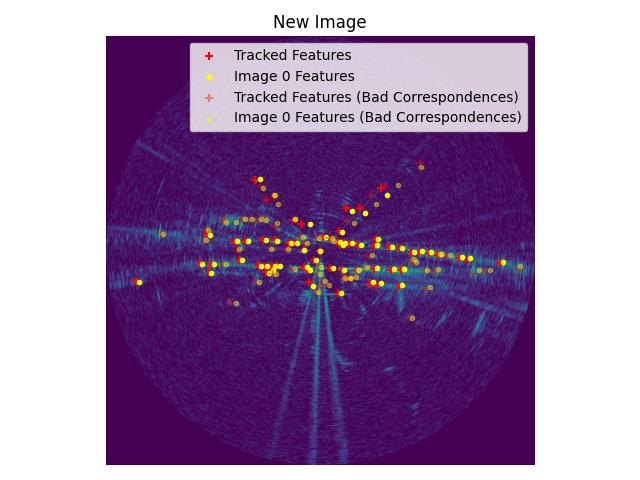
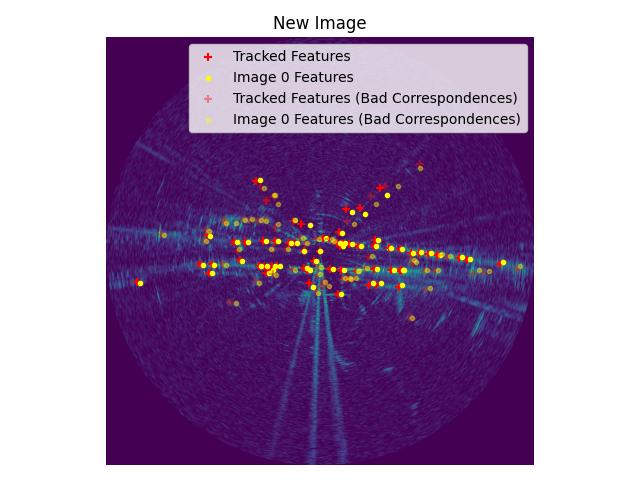
using estimates from deltaX and deltaY

diff --git a/getTransformKLT.py b/getTransformKLT.py
@@ -81,6 +81,29 @@ LK_PARAMS = dict(
 ERR_THRESHOLD = 10  # TODO: Figure out what this is: somewhat arbitrary for now?
 
 
+def estimateTransformUsingDelats(srcCoords: np.ndarray,
+                                 targetCoords: np.ndarray):
+    '''
+    @brief Estimate KLT [x, y] frame translation by taking average of deltaX and deltaYs from source
+    '''
+    # TODO: Negative sign allows us to "invert" the transform
+    deltas = - (srcCoords - targetCoords)
+    deltaAvg = np.mean(deltas, axis=0)
+
+    print("Estimated global frame x, y translation (px):", deltaAvg)
+    deltaX, deltaY = deltaAvg
+
+    theta = np.arctan2(deltaY, deltaX)
+    dist = np.sqrt(deltaX**2 + deltaY**2)
+
+    cth = np.cos(theta)
+    sth = np.sin(theta)
+    R = np.array([[cth, -sth], [sth, cth]])
+    t = np.array((dist, 0))[:, np.newaxis]
+
+    return R, t
+
+
 def calculateTransform(
         srcCoords: np.ndarray,
         targetCoords: np.ndarray) -> tuple[np.ndarray, np.ndarray]:
@@ -320,7 +343,9 @@ if __name__ == "__main__":
                     prev_good_old, good_old, good_new)
 
             # Obtain transforms
-            R, h = calculateTransform(good_old, good_new)
+            # R, h = calculateTransform(good_old, good_new)
+
+            R, h = estimateTransformUsingDelats(good_old, good_new)
 
             # print(f"R={R}\nh={h}")
 
